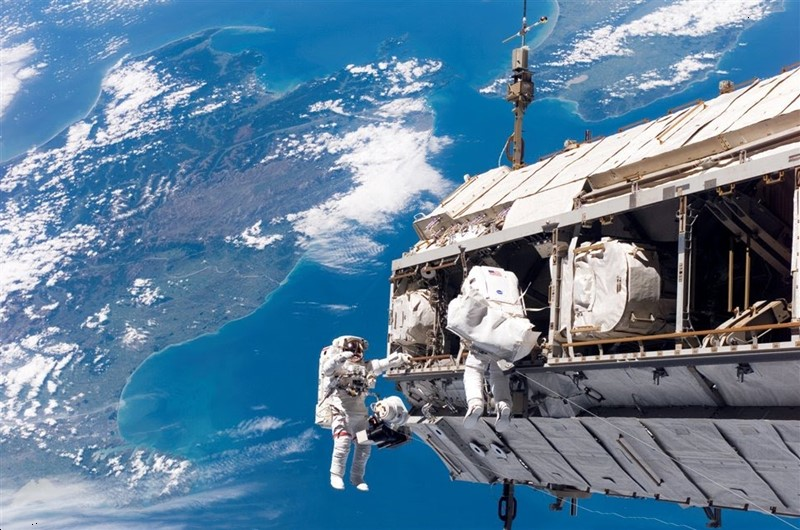
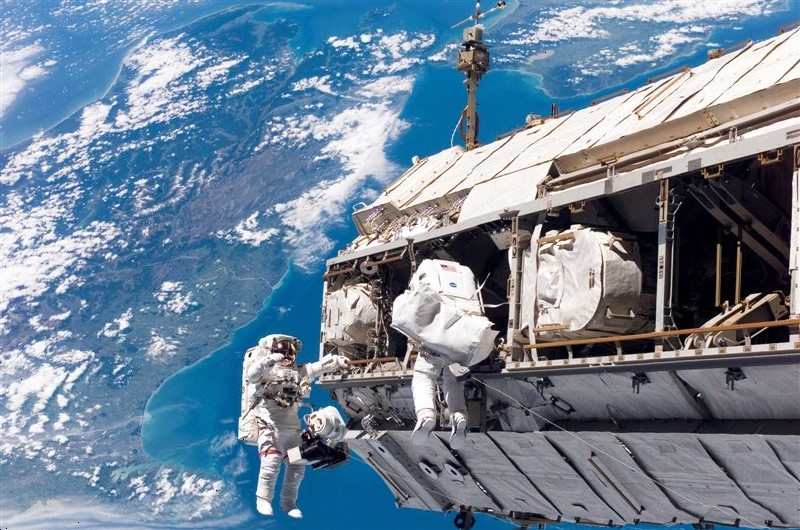
ImageProcessor.Plugins.Cair v1.0.0
Former-commit-id: 1e5dbabd84e93e80b32c3a4bfb106109d3b46dcc
Former-commit-id: 052ff4d45741a49279ac71fedc691122a9671021

diff --git a/src/Plugins/ImageProcessor/ImageProcessor.Plugins.Cair/Processors/ContentAwareResize.cs b/src/Plugins/ImageProcessor/ImageProcessor.Plugins.Cair/Processors/ContentAwareResize.cs
@@ -131,13 +131,7 @@ namespace ImageProcessor.Plugins.Cair.Processors
                         arguments = string.Format("{0} -W {1}", arguments, layer.WeightPath);
                     }
 
-                    bool success = this.ProcessCairImage(arguments, timeout);
-
-                    if (!success)
-                    {
-                        throw new ImageProcessingException(
-                            "Error processing image with " + this.GetType().Name + " due to timeout.");
-                    }
+                    this.ProcessCairImage(arguments, timeout);
 
                     // Assign the new image.
                     newImage = new Bitmap(resizedPath);
@@ -184,10 +178,7 @@ namespace ImageProcessor.Plugins.Cair.Processors
         /// <param name="timeout">
         /// The time in milliseconds to attempt to resize the image for.
         /// </param>
-        /// <returns>
-        /// The <see cref="bool"/>.
-        /// </returns>
-        private bool ProcessCairImage(string arguments, int timeout)
+        private void ProcessCairImage(string arguments, int timeout)
         {
             // Set up and start a new process to resize the image.
             ProcessStartInfo start = new ProcessStartInfo(CairBootstrapper.CairExecutablePath, arguments)
@@ -204,18 +195,21 @@ namespace ImageProcessor.Plugins.Cair.Processors
             {
                 if (process != null)
                 {
-                    bool result = process.WaitForExit(timeout);
-
-                    if (!result)
+                    if (!process.WaitForExit(timeout))
                     {
                         process.Kill();
+
+                        throw new ImageProcessingException("Error processing image with " + this.GetType().Name + " due to timeout.");
                     }
 
-                    return result;
+                    string output = string.Format(" {0} {1}", process.StandardError.ReadToEnd(), process.StandardOutput.ReadToEnd());
+
+                    if (process.ExitCode != 0)
+                    {
+                        throw new ImageProcessingException("Error processing image with " + this.GetType().Name + output);
+                    }
                 }
             }
-
-            return false;
         }
     }
 }

diff --git a/src/ImageProcessorConsole/Program.cs b/src/ImageProcessorConsole/Program.cs
@@ -12,11 +12,13 @@ namespace ImageProcessorConsole
 {
     using System;
     using System.Collections.Generic;
+    using System.Diagnostics;
     using System.Drawing;
     using System.IO;
     using System.Linq;
     using ImageProcessor;
     using ImageProcessor.Plugins.Cair;
+    using ImageProcessor.Plugins.Cair.Imaging;
 
     /// <summary>
     /// The program.
@@ -48,6 +50,11 @@ namespace ImageProcessorConsole
             {
                 byte[] photoBytes = File.ReadAllBytes(fileInfo.FullName);
 
+                Console.WriteLine("Processing: " + fileInfo.Name);
+
+                Stopwatch stopwatch = new Stopwatch();
+                stopwatch.Start();
+
                 // ImageProcessor
                 using (MemoryStream inStream = new MemoryStream(photoBytes))
                 {
@@ -55,15 +62,24 @@ namespace ImageProcessorConsole
                     {
                         Size size = new Size(800, 0);
 
+                        ContentAwareResizeLayer layer = new ContentAwareResizeLayer(size)
+                        {
+                            ConvolutionType = ConvolutionType.Sobel
+                        };
+
                         // Load, resize, set the format and quality and save an image.
                         imageFactory.Load(inStream)
                             //.BackgroundColor(Color.White)
                             //.Resize(new Size((int)(size.Width * 1.1), 0))
-                            .ContentAwareResize(size)
+                            .ContentAwareResize(layer)
                             //.Constrain(size)
                             .Save(Path.GetFullPath(Path.Combine(Path.GetDirectoryName(path), @"..\..\images\output", fileInfo.Name)));
+
+                        stopwatch.Stop();
                     }
                 }
+
+                Console.WriteLine("Processed: " + fileInfo.Name + " in " + stopwatch.ElapsedMilliseconds + "ms");
             }
         }
 
